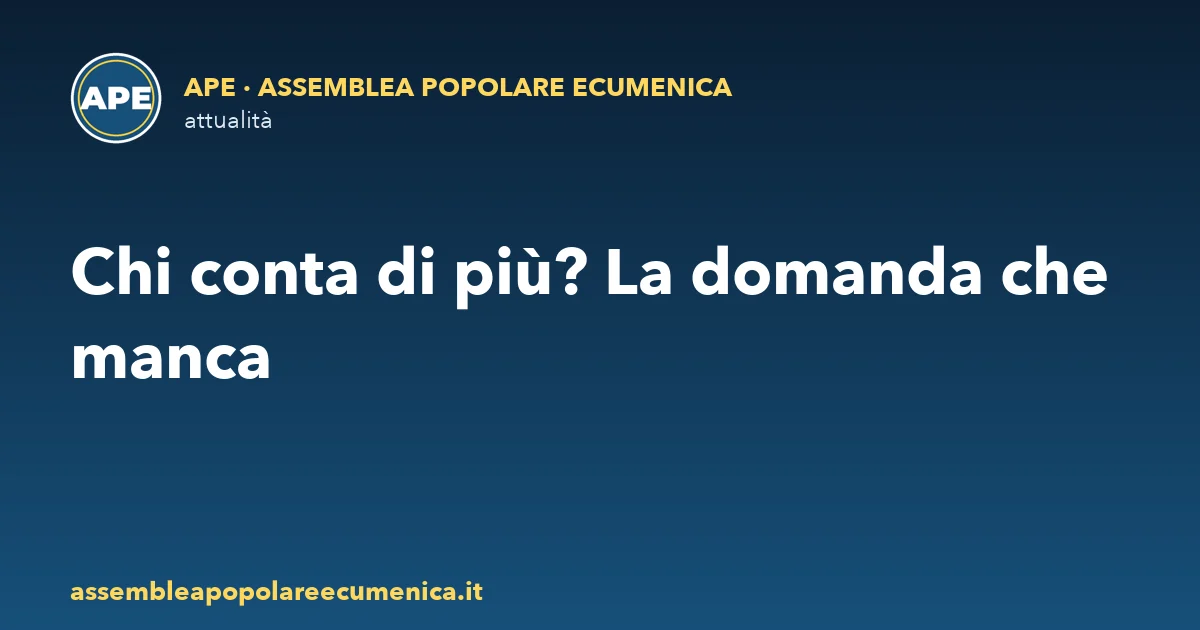
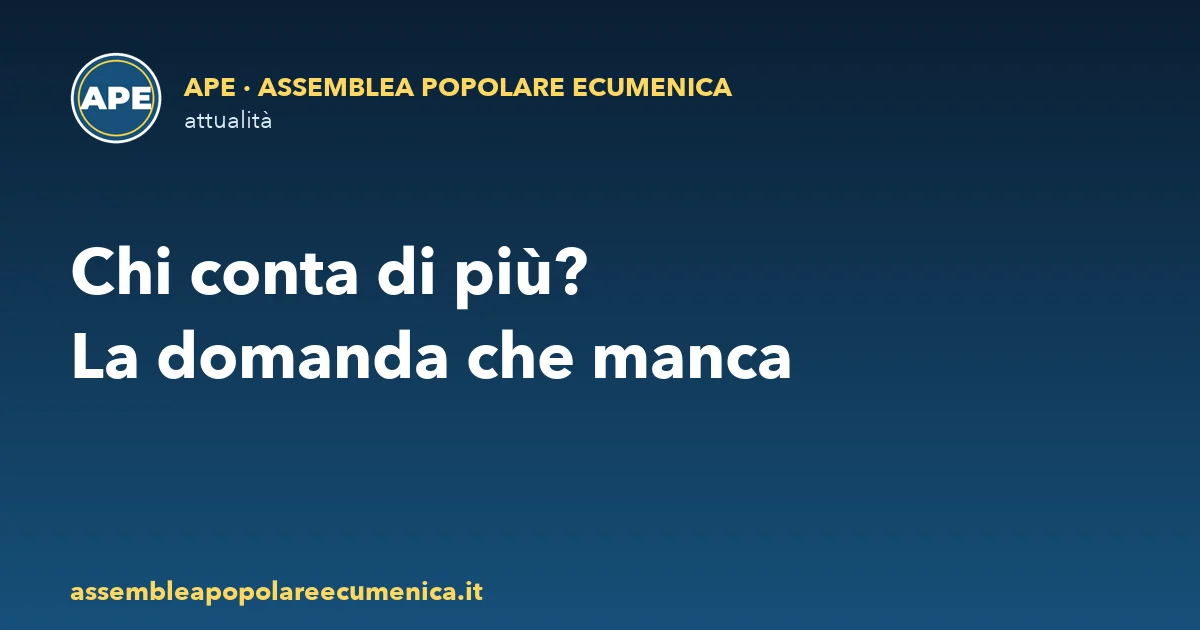
Card titolo: a capo a frasi compiute

Changed region(s): [[0.0617, 0.5127, 0.6783, 0.6032], [0.4933, 0.3921, 0.925, 0.4825]]

diff --git a/_tools/costruisci.py b/_tools/costruisci.py
@@ -642,11 +642,13 @@ def card_titolo(aid, titolo, tipo='Attualità'):
     lg = Image.open(QUI + 'images/ape-marchio.webp').convert('RGBA').resize((92, 92)); im.paste(lg, (70, 52), lg)
     d.text((184, 70), 'APE · ASSEMBLEA POPOLARE ECUMENICA', font=f(26, 0), fill=(255, 215, 94))
     d.text((184, 104), tipo.lower(), font=f(24, 7), fill=(225, 234, 242))
-    righe, cur = [], ''
-    for w in html.unescape(titolo).split():
-        if d.textlength((cur + ' ' + w).strip(), font=f(64, 0)) > W - 140 and cur: righe.append(cur); cur = w
-        else: cur = (cur + ' ' + w).strip()
-    righe.append(cur)
+    righe = []   # a capo a frasi compiute (regola di Fernando): prima si spezza dopo ? ! . :, poi solo se una frase non sta in riga
+    for fr in re.split(r'(?<=[?!.:])\s+', html.unescape(titolo)):
+        cur = ''
+        for w in fr.split():
+            if d.textlength((cur + ' ' + w).strip(), font=f(64, 0)) > W - 140 and cur: righe.append(cur); cur = w
+            else: cur = (cur + ' ' + w).strip()
+        if cur: righe.append(cur)
     y = 230
     for r_ in righe[:4]:
         d.text((70, y), r_, font=f(64, 0), fill=(255, 255, 255)); y += 84
